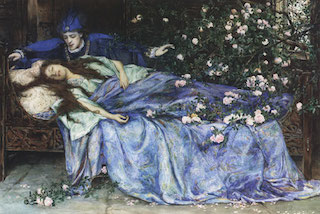
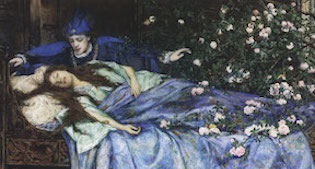
crop sleeping beauty

diff --git a/css/style.css b/css/style.css
@@ -158,67 +158,67 @@ article > header {
 }
 
 .art1 > header {
-	background-image: url(assets/images-dim/rotkaeppchen.jpeg);
+	background-image: url(../assets/images-dim/rotkaeppchen.jpeg);
 }
 
 .art1 > header:hover {
-	background-image: url(assets/images/rotkaeppchen.jpeg);
+	background-image: url(../assets/images/rotkaeppchen.jpeg);
 }
 
 .art2 > header {
-	background-image: url(assets/images-dim/sleeping-beauty.jpg);
+	background-image: url(../assets/images-dim/sleeping-beauty2.jpg);
 }
 
 .art2 > header:hover {
-	background-image: url(assets/images/sleeping-beauty.jpg);
+	background-image: url(../assets/images/sleeping-beauty.jpg);
 }
 
 .art3 > header {
-	background-image: url(assets/images-dim/schneewittchen.jpg);
+	background-image: url(../assets/images-dim/schneewittchen.jpg);
 }
 
 .art3 > header:hover {
-	background-image: url(assets/images/schneewittchen.jpg);
+	background-image: url(../assets/images/schneewittchen.jpg);
 }
 
 .art4 > header {
-	background-image: url(assets/images-dim/haensel_gretel.jpg);
+	background-image: url(../assets/images-dim/haensel_gretel.jpg);
 }
 
 .art4 > header:hover {
-	background-image: url(assets/images/haensel_gretel.jpg);
+	background-image: url(../assets/images/haensel_gretel.jpg);
 }
 
 .art5 > header {
-	background-image: url(assets/images-dim/froschkonig2.jpg);
+	background-image: url(../assets/images-dim/froschkonig2.jpg);
 }
 
 .art5 > header:hover {
-	background-image: url(assets/images/froschkonig2.jpg);
+	background-image: url(../assets/images/froschkonig2.jpg);
 }
 
 .art6 > header {
-	background-image: url(assets/images-dim/rumpelstilzchen.jpg);
+	background-image: url(../assets/images-dim/rumpelstilzchen.jpg);
 }
 
 .art6 > header:hover {
-	background-image: url(assets/images/rumpelstilzchen.jpg);
+	background-image: url(../assets/images/rumpelstilzchen.jpg);
 }
 
 .art7 > header {
-	background-image: url(assets/images-dim/rapunzel2.jpg);
+	background-image: url(../assets/images-dim/rapunzel2.jpg);
 }
 
 .art7 > header:hover {
-	background-image: url(assets/images/rapunzel2.jpg);
+	background-image: url(../assets/images/rapunzel2.jpg);
 }
 
 .art8 > header {
-	background-image: url(assets/images-dim/aschenputtel.jpg);
+	background-image: url(../assets/images-dim/aschenputtel.jpg);
 }
 
 .art8 > header:hover {
-	background-image: url(assets/images/aschenputtel.jpg);
+	background-image: url(../assets/images/aschenputtel.jpg);
 }
 
 .arrow-icon, .views {

diff --git a/index.html b/index.html
@@ -3,8 +3,8 @@
 	<head>
 		<title>Grimms Märchen</title>
 		<script src="https://use.fontawesome.com/feee93a86d.js"></script>
-		<link rel="stylesheet" href="normalize.css">
-		<link rel="stylesheet" href="style.css">
+		<link rel="stylesheet" href="css/normalize.css">
+		<link rel="stylesheet" href="css/style.css">
 		<link href="https://fonts.googleapis.com/css?family=UnifrakturMaguntia" rel="stylesheet">
 		<link href="https://fonts.googleapis.com/css?family=Open+Sans:400,400i,600,600i" rel="stylesheet">
 		<META HTTP-EQUIV="content-type" CONTENT="text/html; charset=utf-8">
